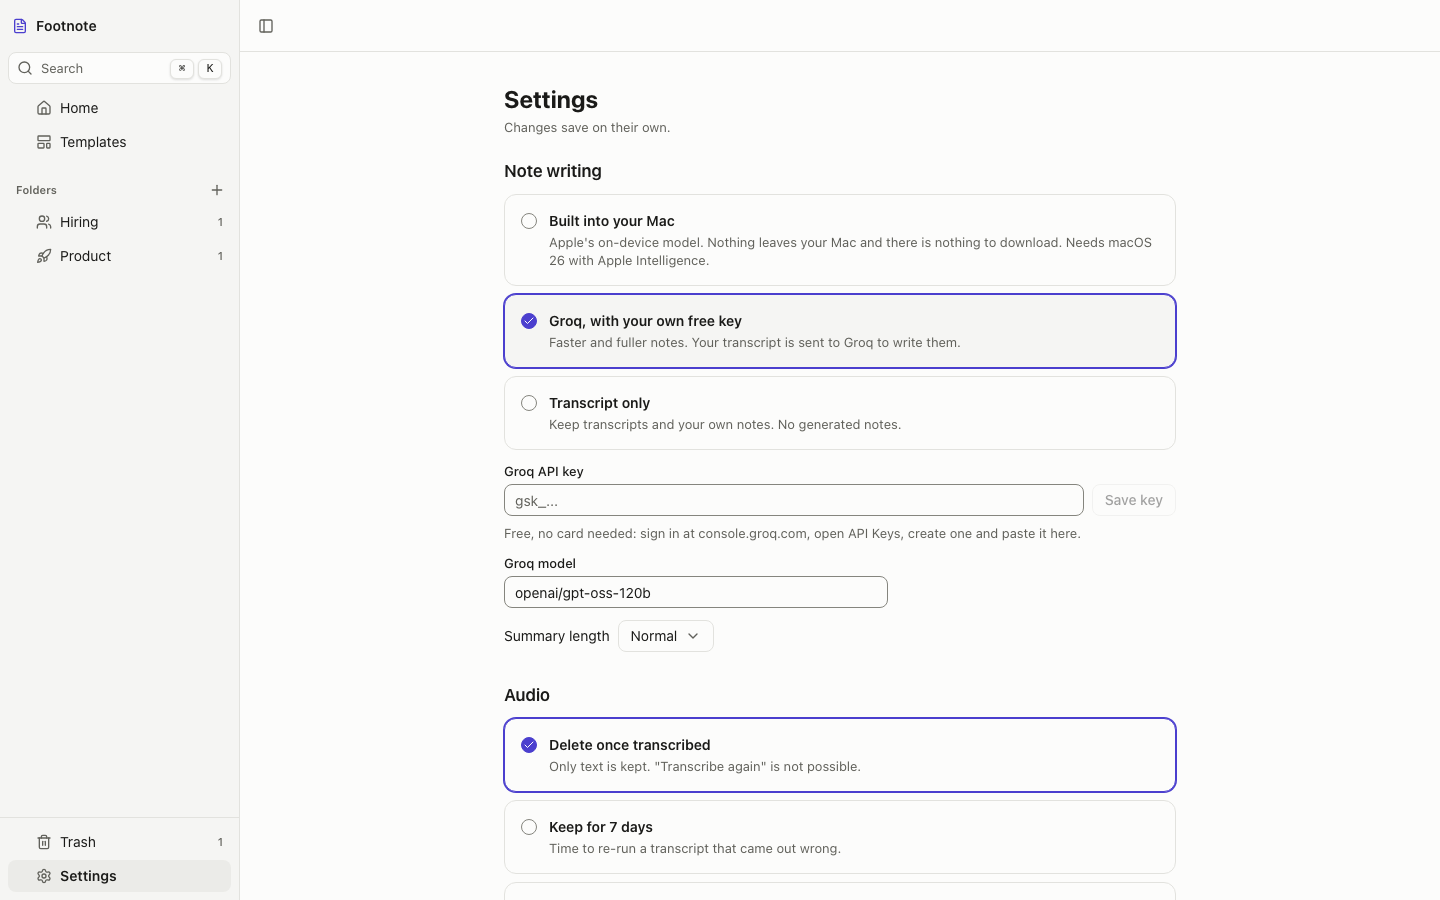
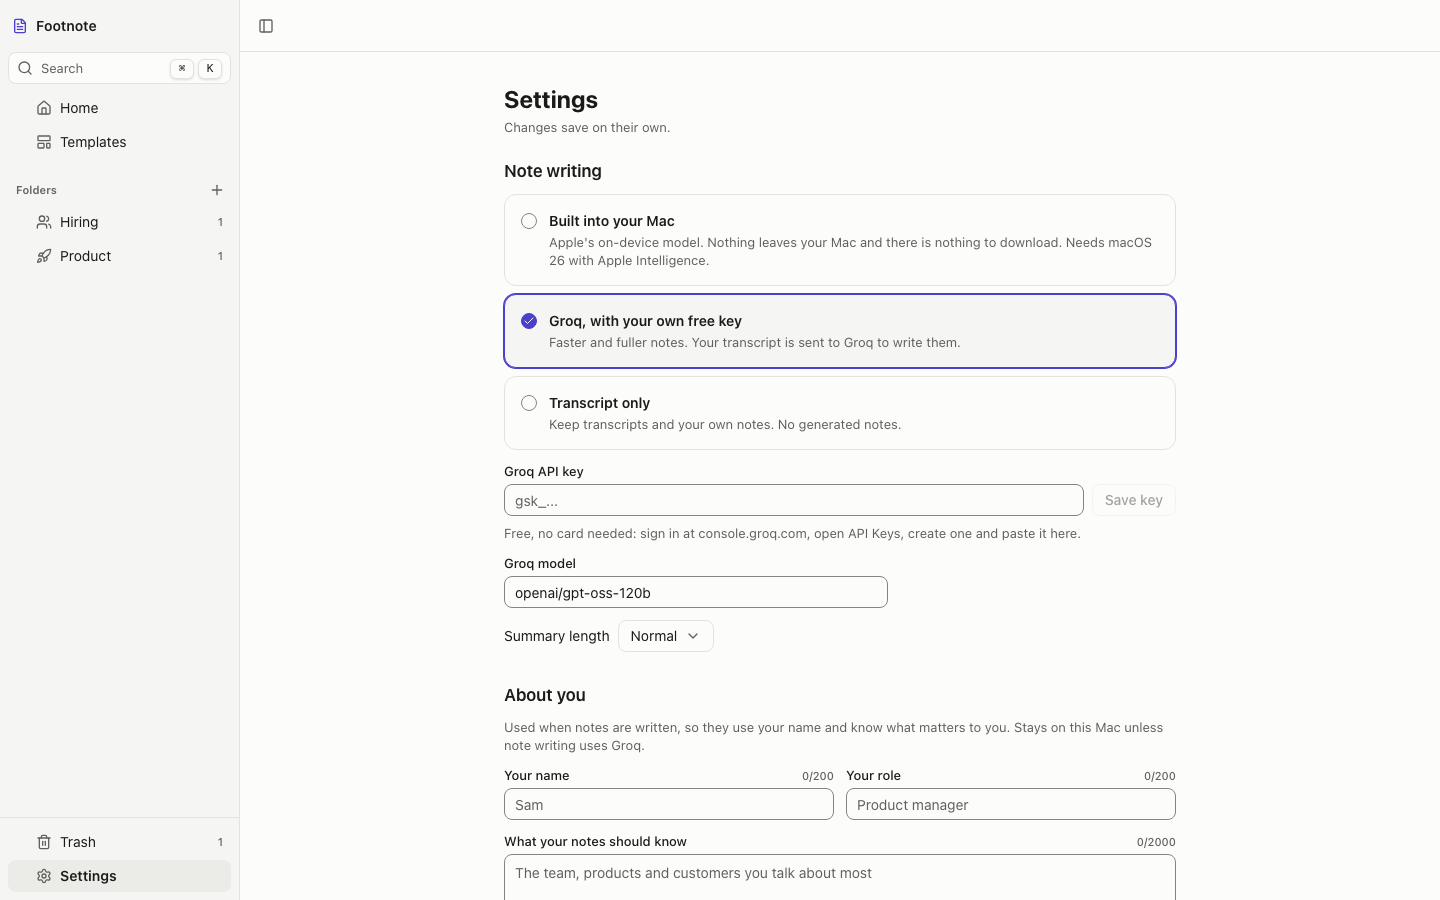
build: S28 about you, transcript keeping and theme
Profile context goes into every note-writing request. Transcript keeping
only touches finished notes, so a transcript waiting for its notes is
never deleted. Theme applies to every window.

Changed region(s): [[0.3438, 0.7467, 0.8125, 0.9956], [0.7812, 0.9333, 0.8125, 0.9644]]

diff --git a/app/src/screens/Settings.tsx b/app/src/screens/Settings.tsx
@@ -1,6 +1,6 @@
 // S28 settings: how notes get written, what happens to audio, words to spell right, export everything.
 import { useEffect, useRef, useState, type ReactNode } from "react";
-import { Banner, Button, PageHeader, RadioCards, SelectMenu, SkeletonRows, TextInput } from "../ui/base";
+import { Banner, Button, PageHeader, RadioCards, SelectMenu, SkeletonRows, TextArea, TextInput } from "../ui/base";
 import { TagInput } from "../ui/notes";
 import { LoadError, Page } from "../app/Layout";
 import { go } from "../app/router";
@@ -51,6 +51,14 @@ function GroqKey({ saved, onSaved }: { saved: boolean; onSaved: (saved: boolean)
     </form>
   );
 }
+const TRANSCRIPTS: { value: string; title: string; body: string }[] = [
+  { value: "keep", title: "Keep until I delete the note", body: "" },
+  { value: "90", title: "Delete after 90 days", body: "Your notes and what was written from the call stay. Source links into the transcript stop working." },
+  { value: "365", title: "Delete after a year", body: "Same, after 365 days." },
+];
+const THEMES: { value: S["theme"]; label: string }[] = [
+  { value: "system", label: "Same as the Mac" }, { value: "light", label: "Light" }, { value: "dark", label: "Dark" },
+];
 const RETENTION: { value: S["audioRetention"]; title: string; body: string }[] = [
   { value: "delete_after_transcript", title: "Delete once transcribed", body: "Only text is kept. \"Transcribe again\" is not possible." },
   { value: "keep_7d", title: "Keep for 7 days", body: "Time to re-run a transcript that came out wrong." },
@@ -130,8 +138,32 @@ export function Settings() {
               </div>
             </Section>
 
+            <Section title="About you">
+              <p className="text-sm text-muted">Used when notes are written, so they use your name and know what matters to you. Stays on this Mac unless note writing uses Groq.</p>
+              <div className="grid gap-3 md:grid-cols-2">
+                <TextInput label="Your name" value={s.userName ?? ""} max={200} onChange={(e) => set("userName", e.target.value)} placeholder="Sam" />
+                <TextInput label="Your role" value={s.userRole ?? ""} max={200} onChange={(e) => set("userRole", e.target.value)} placeholder="Product manager" />
+              </div>
+              <TextArea label="What your notes should know" value={s.userContext ?? ""} max={2000} rows={3}
+                onChange={(e) => set("userContext", e.target.value)} placeholder="The team, products and customers you talk about most" />
+            </Section>
+
             <Section title="Audio">
               <RadioCards label="What happens to recordings" value={s.audioRetention} onChange={(v) => set("audioRetention", v)} options={RETENTION} />
+            </Section>
+
+            <Section title="Transcripts">
+              <RadioCards label="How long to keep transcripts" options={TRANSCRIPTS}
+                value={s.transcriptRetentionDays ? String(s.transcriptRetentionDays) : "keep"}
+                onChange={(v) => set("transcriptRetentionDays", v === "keep" ? null : Number(v))} />
+              <p className="text-sm text-muted">Only finished notes lose their transcript. One still waiting to be written keeps it.</p>
+            </Section>
+
+            <Section title="Appearance">
+              <div className="flex items-center gap-2 text-base">
+                <span>Theme</span>
+                <SelectMenu label="Theme" value={s.theme} onChange={(v) => set("theme", v)} options={THEMES} />
+              </div>
             </Section>
 
             <Section title="Transcription">

diff --git a/app/e2e/edge.spec.ts b/app/e2e/edge.spec.ts
@@ -881,3 +881,37 @@ test("S02-E6 at 390px a long calendar name wraps and the switch and Remove stay 
   expect(box!.x + box!.width).toBeLessThanOrEqual(390);
   await page.screenshot({ path: "../replica/clone-screens/S02-390.png" });
 });
+
+/* S28 about you, transcripts, theme */
+
+test("S28-E9 profile, transcript keeping and theme save on their own and come back", async ({ page }) => {
+  await open(page, "/settings/preferences");
+  await page.getByLabel("Your name").fill("Sam");
+  await page.getByLabel("Your role").fill("Engineering lead");
+  await page.getByLabel("What your notes should know").fill("We build Footnote. Lena runs sales, Tom runs marketing. Ärger mit Umlauten 🎉");
+  await page.getByRole("radio", { name: /Delete after 90 days/ }).click();
+  await page.getByRole("combobox", { name: "Theme" }).click();
+  await page.getByRole("option", { name: "Dark" }).click();
+  await expect(page.locator("html")).toHaveAttribute("data-theme", "dark");
+  await expect(page.getByText("Saved.")).toBeVisible();
+  await page.getByRole("navigation", { name: "Main" }).getByRole("button", { name: "Home" }).click();
+  await expect(page.locator("html")).toHaveAttribute("data-theme", "dark"); // whole app, not just Settings
+  await page.getByRole("navigation", { name: "Main" }).getByRole("button", { name: "Settings" }).click();
+  await expect(page.getByLabel("Your role")).toHaveValue("Engineering lead");
+  await expect(page.getByLabel("What your notes should know")).toHaveValue(/Umlauten 🎉/);
+  await expect(page.getByRole("radio", { name: /Delete after 90 days/ })).toBeChecked();
+  const axe = await new AxeBuilder({ page }).analyze();
+  expect(axe.violations.filter((v) => v.impact === "serious" || v.impact === "critical").map((v) => v.id)).toEqual([]);
+  await page.screenshot({ path: "../replica/clone-screens/S28-about-dark.png", fullPage: true });
+  await page.getByRole("combobox", { name: "Theme" }).click();
+  await page.getByRole("option", { name: "Same as the Mac" }).click();
+  await expect(page.locator("html")).not.toHaveAttribute("data-theme", /.+/);
+});
+
+test("S28-E10 notes context over 2,000 characters says why and does not save", async ({ page }) => {
+  await open(page, "/settings/preferences");
+  await page.getByLabel("What your notes should know").fill("x".repeat(2001));
+  await expect(page.getByRole("alert")).toContainText("too long");
+  await page.getByLabel("What your notes should know").fill("short again");
+  await expect(page.getByText("Saved.")).toBeVisible();
+});

diff --git a/app/src/data/fake.ts b/app/src/data/fake.ts
@@ -408,7 +408,7 @@ export async function chatSend(q: { scopeIds: string[] | "all"; text: string }, 
 /* Settings (S28), same checks as settings_update ------------------------------ */
 
 let settings: Settings = {
-  llmProvider: "apple", llmModel: "openai/gpt-oss-120b", summaryLength: "normal", groqKeySaved: false,
+  llmProvider: "apple", llmModel: "openai/gpt-oss-120b", summaryLength: "normal", groqKeySaved: false, theme: "system", transcriptRetentionDays: null,
   appleStatus: (new URLSearchParams(location.search).get("apple") ?? "available") as Settings["appleStatus"],
   audioRetention: "delete_after_transcript", jargon: [], languages: ["en"],
 };
@@ -417,6 +417,9 @@ export const settingsUpdate = (s: Settings) => call("settings_update", () => {
   if (!s.llmModel.trim()) throw new Error("Enter a model name.");
   if (s.llmModel.length > 200) throw new Error("Keep the model name under 200 characters.");
   if (s.jargon.length > 30 || s.jargon.some((j) => j.length > 60)) throw new Error("Up to 30 words, each under 60 characters.");
+  if ((s.userContext ?? "").length > 2000 || (s.userName ?? "").length > 200 || (s.userRole ?? "").length > 200) throw new Error("Some settings are too long.");
+  const d = s.transcriptRetentionDays;
+  if (d != null && !(d >= 1 && d <= 3650)) throw new Error("Pick how long to keep transcripts.");
   settings = { ...s, llmModel: s.llmModel.trim(), appleStatus: settings.appleStatus, groqKeySaved: settings.groqKeySaved };
   commit();
 });

diff --git a/app/src/app/App.tsx b/app/src/app/App.tsx
@@ -14,6 +14,8 @@ import { NotFound, STUBS, Stub } from "../screens/Stub";
 import { Sidebar } from "./Sidebar";
 import { Palette } from "./Palette";
 import { match, useRoute } from "./router";
+import { settingsGet } from "../data/api";
+import { useLive } from "../data/store";
 
 const wide = () => matchMedia("(min-width: 768px)").matches;
 
@@ -31,7 +33,18 @@ function Screen({ path }: { path: string }) {
   return stub ? <Stub s={stub} /> : <NotFound />;
 }
 
+// S28 theme: "system" leaves it to the Mac (prefers-color-scheme in tokens.css).
+function useTheme() {
+  const s = useLive(() => settingsGet(), []);
+  const theme = s.data?.theme ?? "system";
+  useEffect(() => {
+    if (theme === "system") document.documentElement.removeAttribute("data-theme");
+    else document.documentElement.setAttribute("data-theme", theme);
+  }, [theme]);
+}
+
 export function App() {
+  useTheme();
   const path = useRoute();
   const toast = match("/toast/:id", path);
   return toast ? <MeetingPopup key={toast.id} eventId={toast.id} /> : <Main path={path} />;

diff --git a/app/e2e/app.spec.ts b/app/e2e/app.spec.ts
@@ -330,7 +330,7 @@ test("S28 settings: save on their own, invalid input says why, export explains t
 
 test("S28 settings: keyboard only, change retention", async ({ page }) => {
   await open(page, "/settings/preferences");
-  await page.getByRole("combobox", { name: "Summary length" }).focus();
+  await page.getByLabel("What your notes should know").focus(); // the field right before the audio choices
   await page.keyboard.press("Tab"); // into the audio choices, on the checked one
   await expect(page.getByRole("radio", { name: /Delete once transcribed/ })).toBeFocused();
   await page.keyboard.press("ArrowDown");

diff --git a/app/src/data/types.ts b/app/src/data/types.ts
@@ -40,6 +40,8 @@ export type Settings = {
   audioRetention: "delete_after_transcript" | "keep_7d" | "keep_30d" | "keep_forever";
   markdownMirrorDir?: string; userName?: string; userRole?: string; userContext?: string;
   jargon: string[]; languages: string[];
+  theme: "system" | "light" | "dark";
+  transcriptRetentionDays?: number | null; // null = keep until the note is deleted
 };
 
 export type Permission = "granted" | "denied" | "undetermined" | "unknown";

diff --git a/app/src-tauri/src/lib.rs b/app/src-tauri/src/lib.rs
@@ -382,13 +382,16 @@ struct Settings {
     user_context: Option<String>,
     jargon: Vec<String>,
     languages: Vec<String>,
+    theme: String,
+    /// None = keep transcripts until the note is deleted.
+    transcript_retention_days: Option<i64>,
 }
 
 #[tauri::command(async)]
 fn settings_get(st: State<St>) -> R<Settings> {
     read(&st, |c| {
         Ok(c.query_row(
-            "select llm_provider, llm_model, summary_length, audio_retention, markdown_mirror_dir, user_name, user_role, user_context, jargon, languages from settings",
+            "select llm_provider, llm_model, summary_length, audio_retention, markdown_mirror_dir, user_name, user_role, user_context, jargon, languages, theme, transcript_retention_days from settings",
             [],
             |r| {
                 let (j, l): (String, String) = (r.get(8)?, r.get(9)?);
@@ -397,6 +400,7 @@ fn settings_get(st: State<St>) -> R<Settings> {
                     markdown_mirror_dir: r.get(4)?, user_name: r.get(5)?, user_role: r.get(6)?, user_context: r.get(7)?,
                     apple_status: apple::status().into(), groq_key_saved: enhance::groq_key().is_some_and(|k| !k.is_empty()),
                     jargon: serde_json::from_str(&j).unwrap_or_default(), languages: serde_json::from_str(&l).unwrap_or_default(),
+                    theme: r.get(10)?, transcript_retention_days: r.get(11)?,
                 })
             },
         )?)
@@ -418,6 +422,9 @@ fn settings_update(st: State<St>, s: Settings) -> R<()> {
     if s.languages.len() > 10 || !short(&s.user_context, 2000) || !short(&s.user_name, 200) || !short(&s.user_role, 200) {
         return Err("Some settings are too long.".into());
     }
+    if s.transcript_retention_days.is_some_and(|d| !(1..=3650).contains(&d)) {
+        return Err("Pick how long to keep transcripts.".into());
+    }
     if let Some(d) = &s.markdown_mirror_dir {
         if !std::path::Path::new(d).is_dir() {
             return Err("That folder does not exist.".into());
@@ -427,9 +434,11 @@ fn settings_update(st: State<St>, s: Settings) -> R<()> {
     write(&st, |c| {
         c.execute(
             "update settings set llm_provider = ?1, llm_model = ?2, summary_length = ?3, audio_retention = ?4, markdown_mirror_dir = ?5,
-               user_name = ?6, user_role = ?7, user_context = ?8, jargon = ?9, languages = ?10, updated_at = ?11 where id = 1",
+               user_name = ?6, user_role = ?7, user_context = ?8, jargon = ?9, languages = ?10, updated_at = ?11, theme = ?12,
+               transcript_retention_days = ?13 where id = 1",
             params![s.llm_provider, s.llm_model.trim(), s.summary_length, s.audio_retention, s.markdown_mirror_dir,
-                s.user_name, s.user_role, s.user_context, serde_json::to_string(&s.jargon)?, serde_json::to_string(&s.languages)?, now_ms()],
+                s.user_name, s.user_role, s.user_context, serde_json::to_string(&s.jargon)?, serde_json::to_string(&s.languages)?, now_ms(), s.theme,
+                s.transcript_retention_days],
         )?;
         Ok(())
     })

diff --git a/app/src-tauri/src/jobs.rs b/app/src-tauri/src/jobs.rs
@@ -469,7 +469,11 @@ fn maintenance(core: &Core) -> anyhow::Result<()> {
     }
     let days: Option<i64> = conn.query_row("select transcript_retention_days from settings", [], |r| r.get(0))?;
     if let Some(d) = days {
-        conn.execute("delete from transcript_segments where created_at < ?1", [now_ms() - d * 86_400_000])?;
+        // only notes that are written: a transcript still waiting for its notes is never thrown away
+        conn.execute(
+            "delete from transcript_segments where created_at < ?1 and note_id in (select id from notes where pipeline_status = 'done')",
+            [now_ms() - d * 86_400_000],
+        )?;
     }
     Ok(())
 }
@@ -481,6 +485,27 @@ mod tests {
 
     fn status(c: &Connection, id: &str) -> String {
         c.query_row("select pipeline_status from notes where id = ?1", [id], |r| r.get(0)).unwrap()
+    }
+
+    #[test]
+    fn transcript_retention_keeps_notes_that_are_not_written_yet() {
+        let c = mem();
+        let core = Core { db: Mutex::new(c), data: std::env::temp_dir(), notify: Box::new(|| {}) };
+        {
+            let c = core.db.lock().unwrap();
+            let (done, waiting) = (notes::create(&c, None).unwrap(), notes::create(&c, None).unwrap());
+            c.execute("update notes set pipeline_status = 'done' where id = ?1", [&done]).unwrap();
+            c.execute("update notes set pipeline_status = 'failed', pipeline_error = 'x' where id = ?1", [&waiting]).unwrap();
+            for (i, n) in [&done, &waiting].iter().enumerate() {
+                c.execute("insert into transcript_segments (id, note_id, source, attribution, text, start_ms, end_ms, created_at) values (?1, ?2, 'microphone', 'me', 'old line', 0, 1, 0)",
+                    params![format!("t{i}"), n]).unwrap();
+            }
+            c.execute("update settings set transcript_retention_days = 30", []).unwrap();
+        }
+        maintenance(&core).unwrap();
+        let c = core.db.lock().unwrap();
+        let left: Vec<String> = c.prepare("select id from transcript_segments").unwrap().query_map([], |r| r.get(0)).unwrap().map(Result::unwrap).collect();
+        assert_eq!(left, ["t1"], "the written note lost its old transcript, the failed one kept it");
     }
 
     #[test]

diff --git a/replica/build-log.md b/replica/build-log.md
@@ -39,3 +39,4 @@ Bigger than it looks:
 | F02 auto-stop | 2026-11-12 | partial | Stops after 15 min of silence, or 2 min after the other side of a calendar call goes quiet past the end time; reason stored (migration 0006) and shown on the note. Missing: stop on Mac sleep; a real call. |
 | S20 pop-up | 2026-11-12 | done | No more overlapping: each pop-up takes the first free slot. Control-Option-N, registered only while a pop-up is open, focuses the newest; Esc dismisses. Missing: the shortcut pressed for real in the desktop app (manual). |
 | S02 calendars | 2026-11-12 | done | A switch per calendar (meetings and pop-ups off, events kept, sync on turning back on) and real names from the calendar file. Missing: an account-wide list, which needs Google or Microsoft sign-in. Found BUG-014 on the way. |
+| S28 settings | 2026-11-12 | done | About you (name, role, context for notes), transcript keeping (keep, 90 days, a year; finished notes only), theme switch for every window. Harder than expected: the retention job would have deleted transcripts of notes not yet written; now guarded and tested. |
